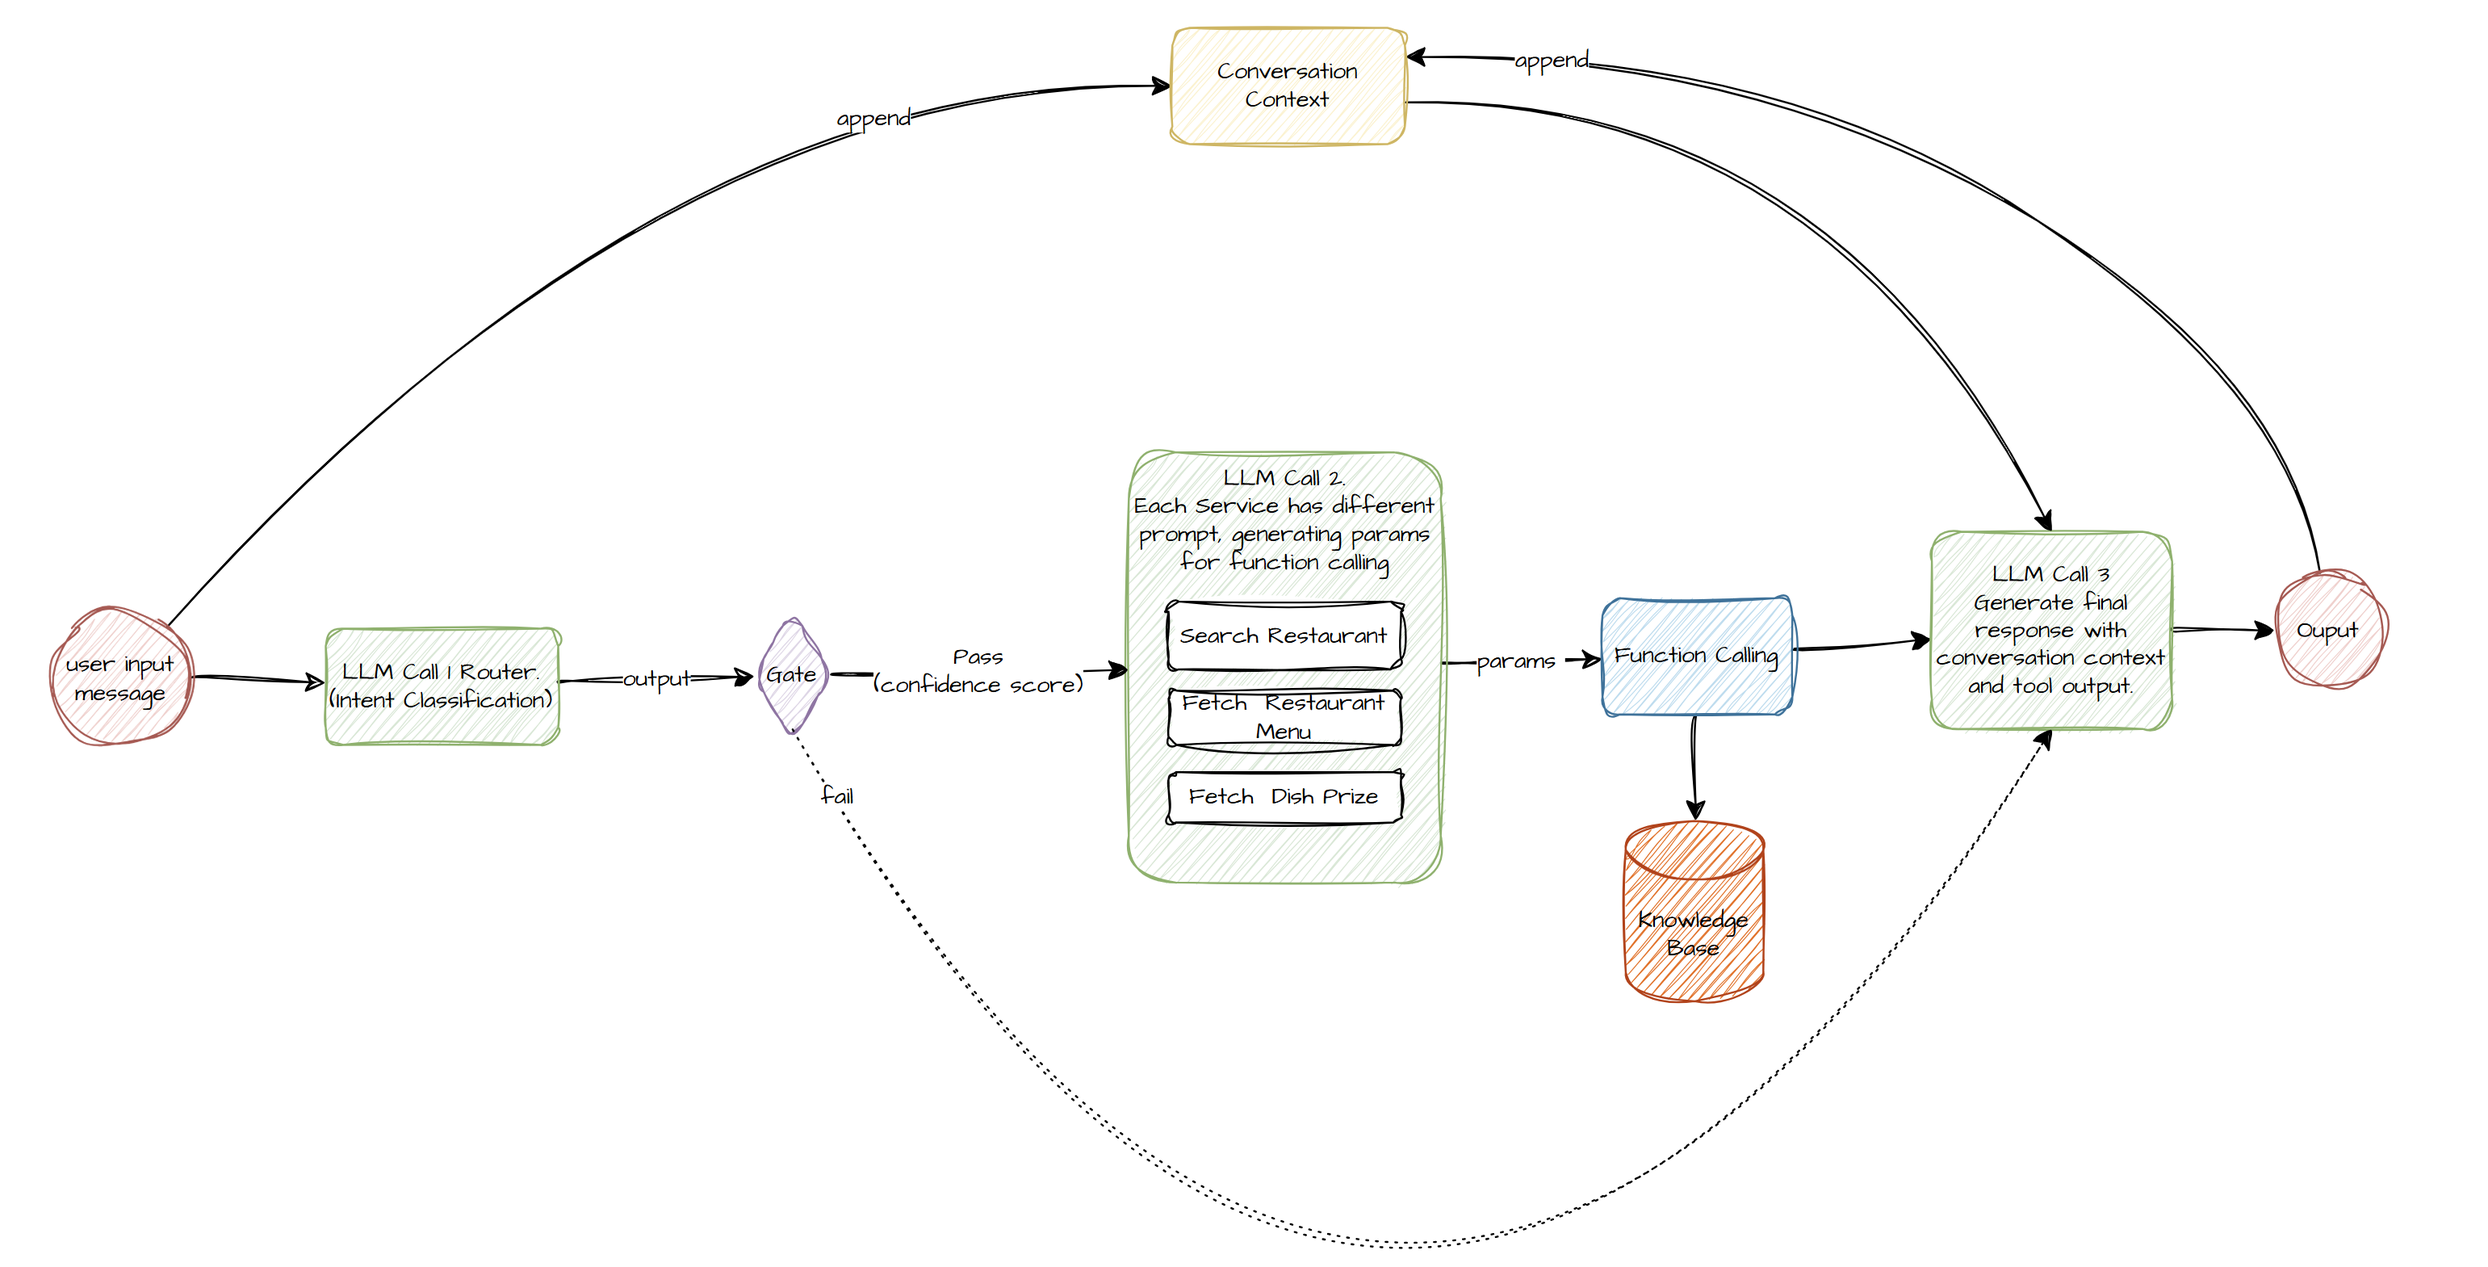
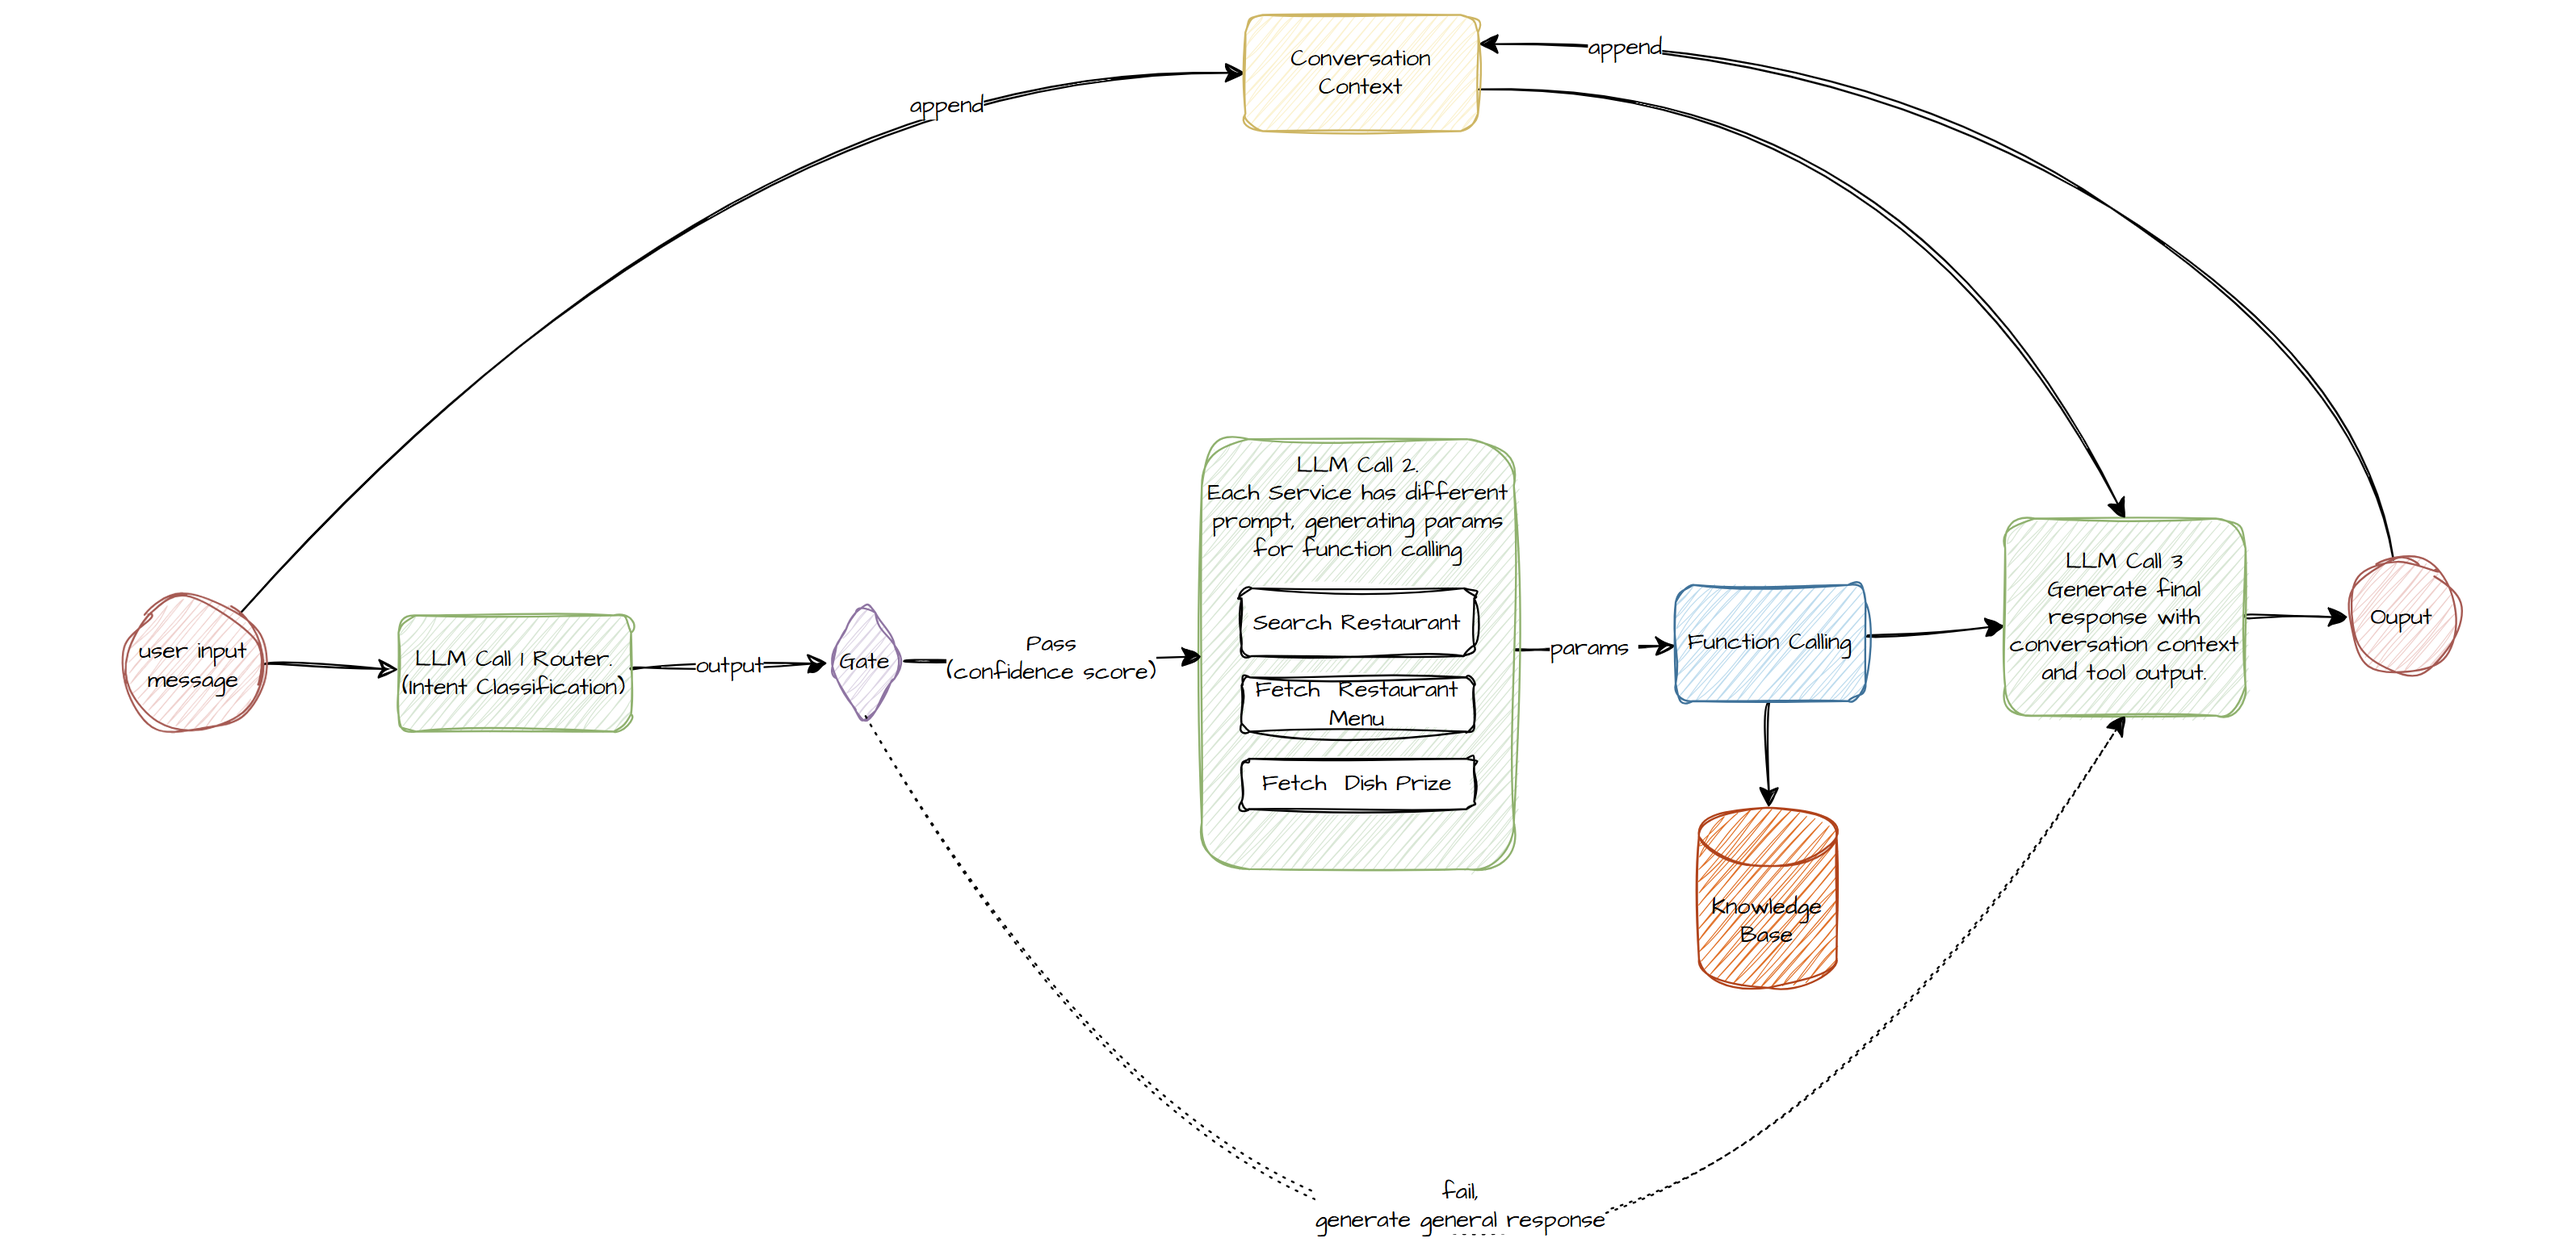
agent flow

diff --git a/README.md b/README.md
@@ -2,16 +2,12 @@
 ## Goal
 Build an intelligent restaurant assistant that can handle multi-turn conversations, process user queries, and interact with external tools (e.g., restaurant databases, reservation systems) to provide real-time information.
 
-### Long Term Goal
-Fully automated conversational agent.
-### Success Criteria
-- High accuracy in intent detection (above 90%)
-- Seamless tool integration for fetching menus, checking availability, and booking tables
-- Multi-turn context retention for better user experience
-- Minimal user corrections (spelling errors, vague queries should still work well)
-
 ## Use case
 Virtual concierge for FoodieSpot, helping customers find restaurants, check availability, fetch menus, and make reservations via a conversational interface. A user can interact through chat, ask about restaurants near them, browse menus, and book a table—all in a single, natural conversation flow. The agent will integrate with a restaurant database, maintain user preferences, and ensure real-time updates
+
+### State Transition Diagram
+
+![alt text](images/agent-flow.png)
 
 ### Key Steps (agent flow)
 
@@ -24,10 +20,7 @@ Virtual concierge for FoodieSpot, helping customers find restaurants, check avai
 7. If reservation needed, agent transitions to booking flow
 8. Booking confirmation & conversation closure
 
-### State Transition Diagram
-
-![alt text](images/agent-flow.png)
-### **Thought Process for Foodie Spot Agent**  
+### Thought Process for Foodie Spot Agent 
 
 1. **Intent Classification:** LLM determines intent of user message(e.g., `reserve_restaurant`, `fetch_price`, `search_restaurant`).  
 
@@ -64,7 +57,6 @@ Virtual concierge for FoodieSpot, helping customers find restaurants, check avai
 - Check table availability
 - Make a reservation
 
-
 #### Future Scope
 
 - Pluggable model support
@@ -79,9 +71,16 @@ Virtual concierge for FoodieSpot, helping customers find restaurants, check avai
 - CRM System (for user preferences & personalization)
 - Payment Gateway (future expansion)
 
+### Long Term Goal
+Fully automated conversational agent.
+
+### Success Criteria
+- High accuracy in intent detection (above 90%)
+- Seamless tool integration for fetching menus, checking availability, and booking tables
+- Multi-turn context retention for better user experience
+- Minimal user corrections (spelling errors, vague queries should still work well)
+
 ### Scale up / Rollout Strategy
-
-
 
 ### Key Future Challenges
 
